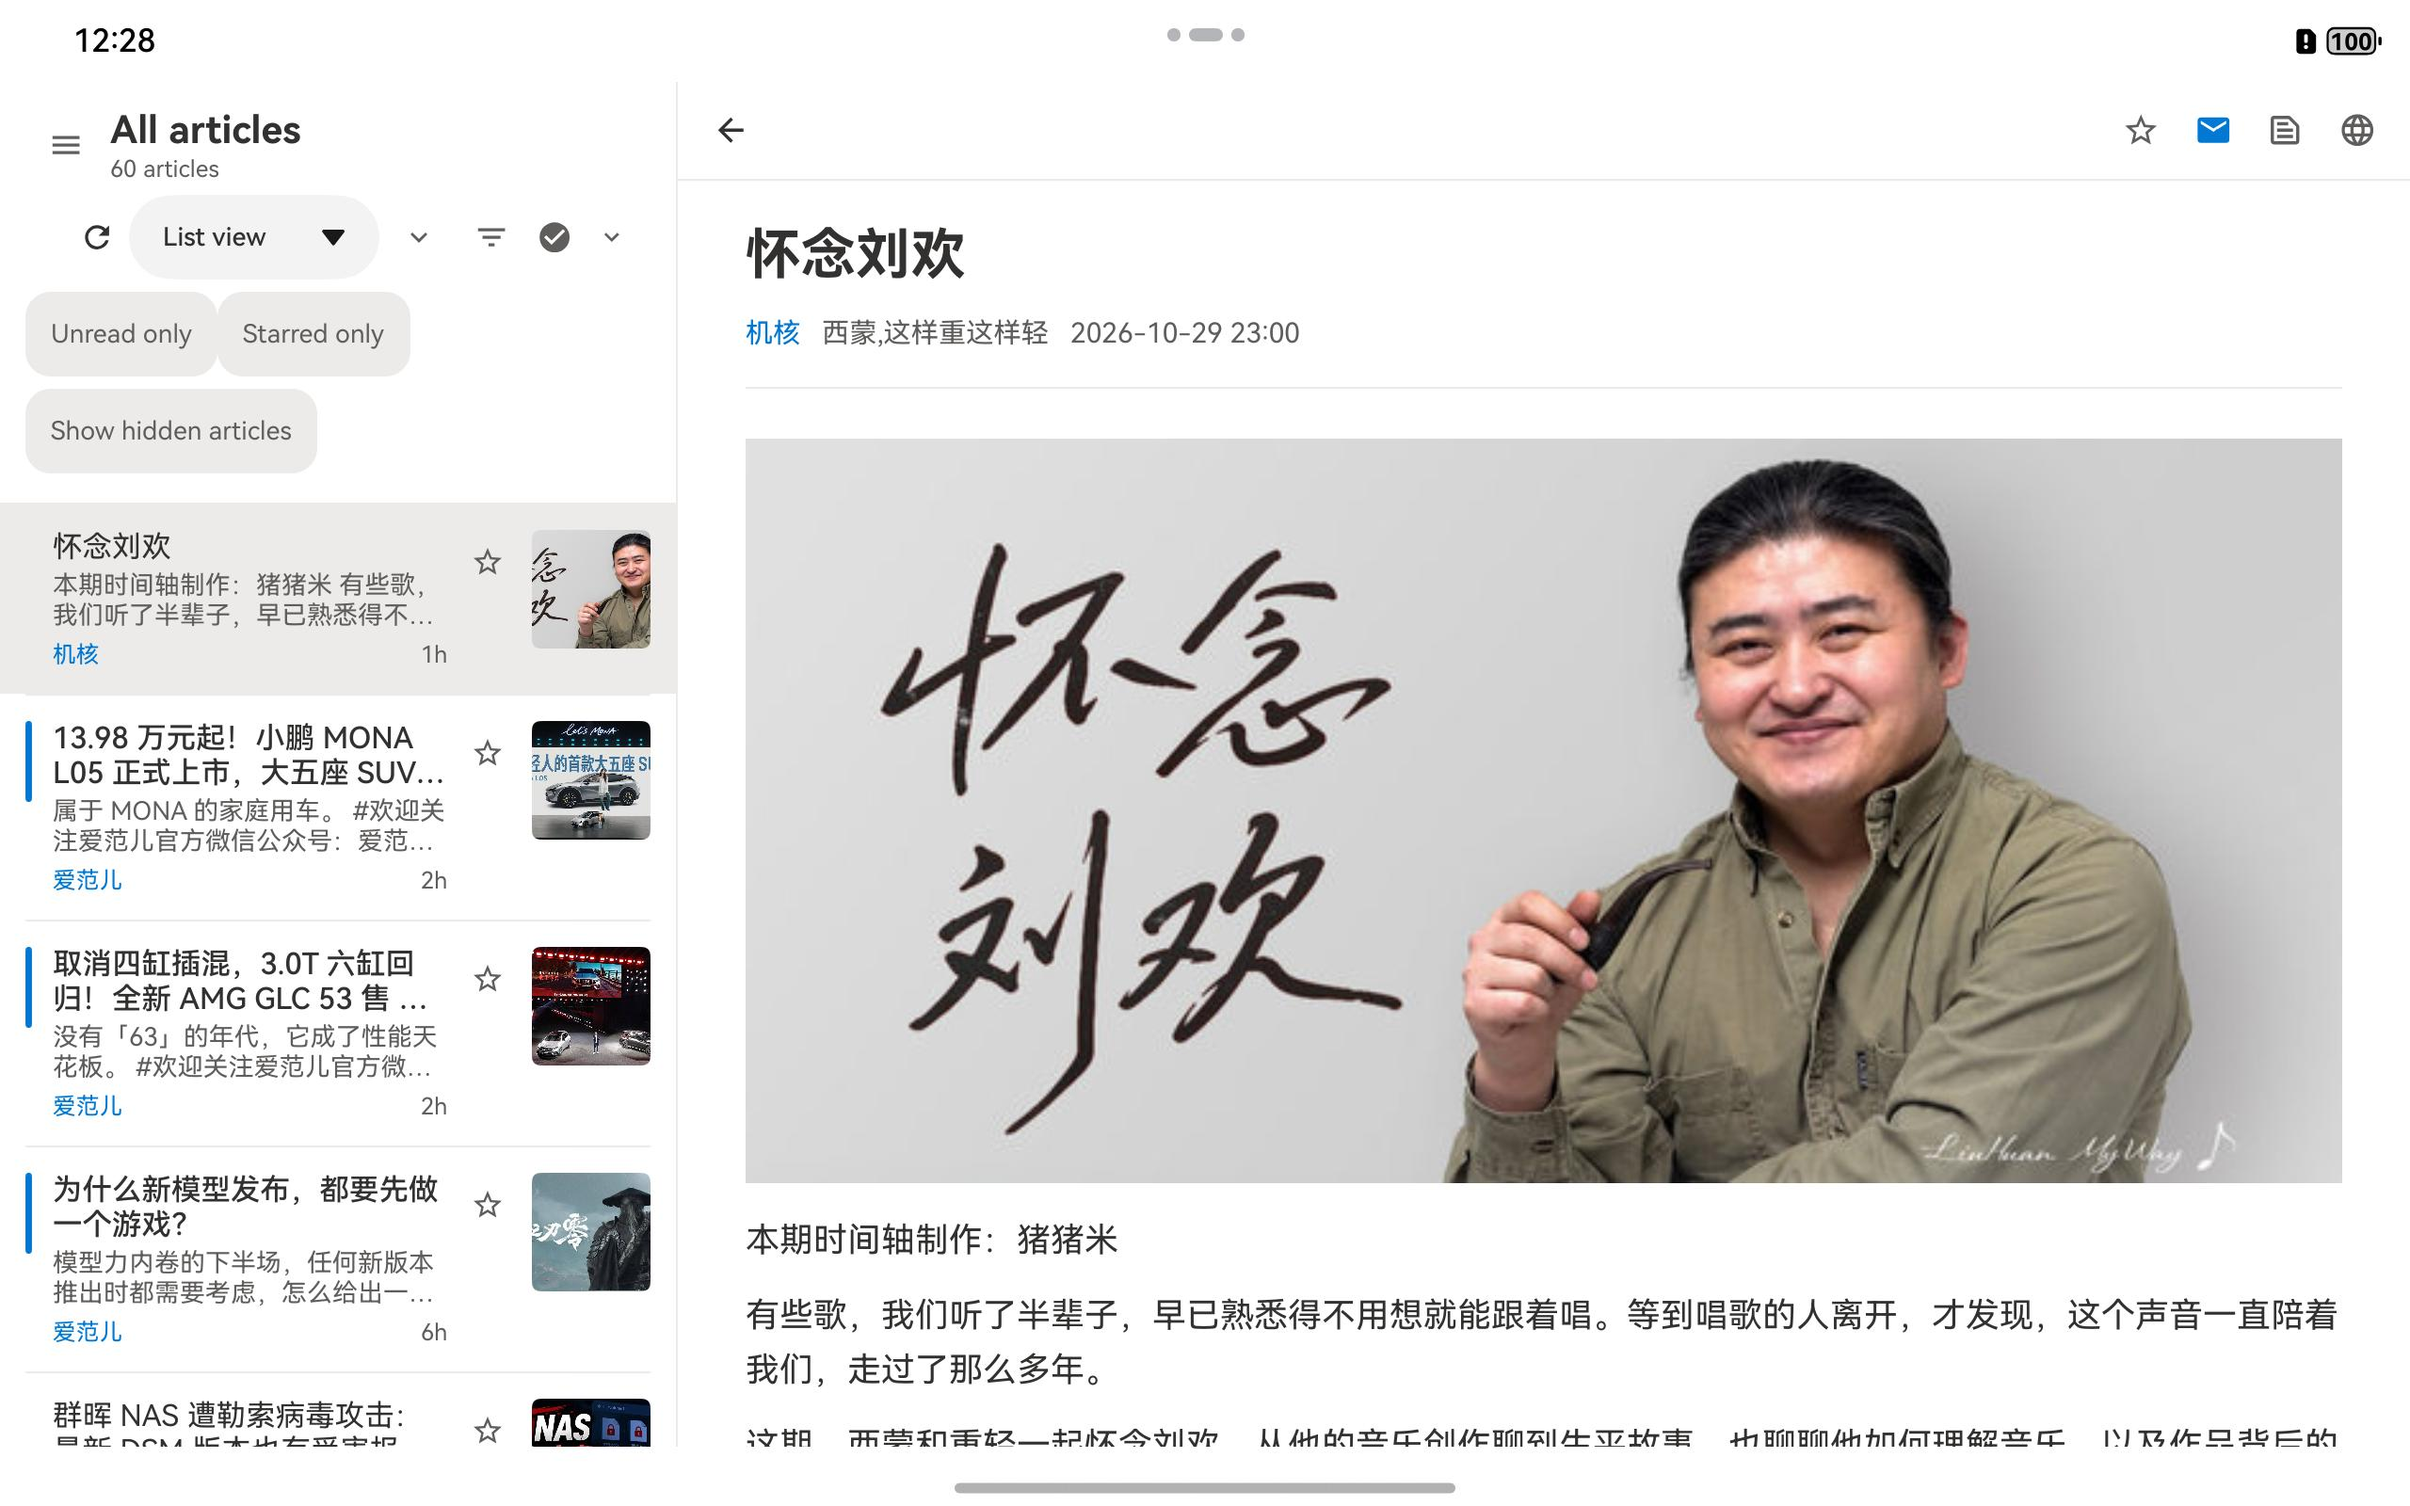
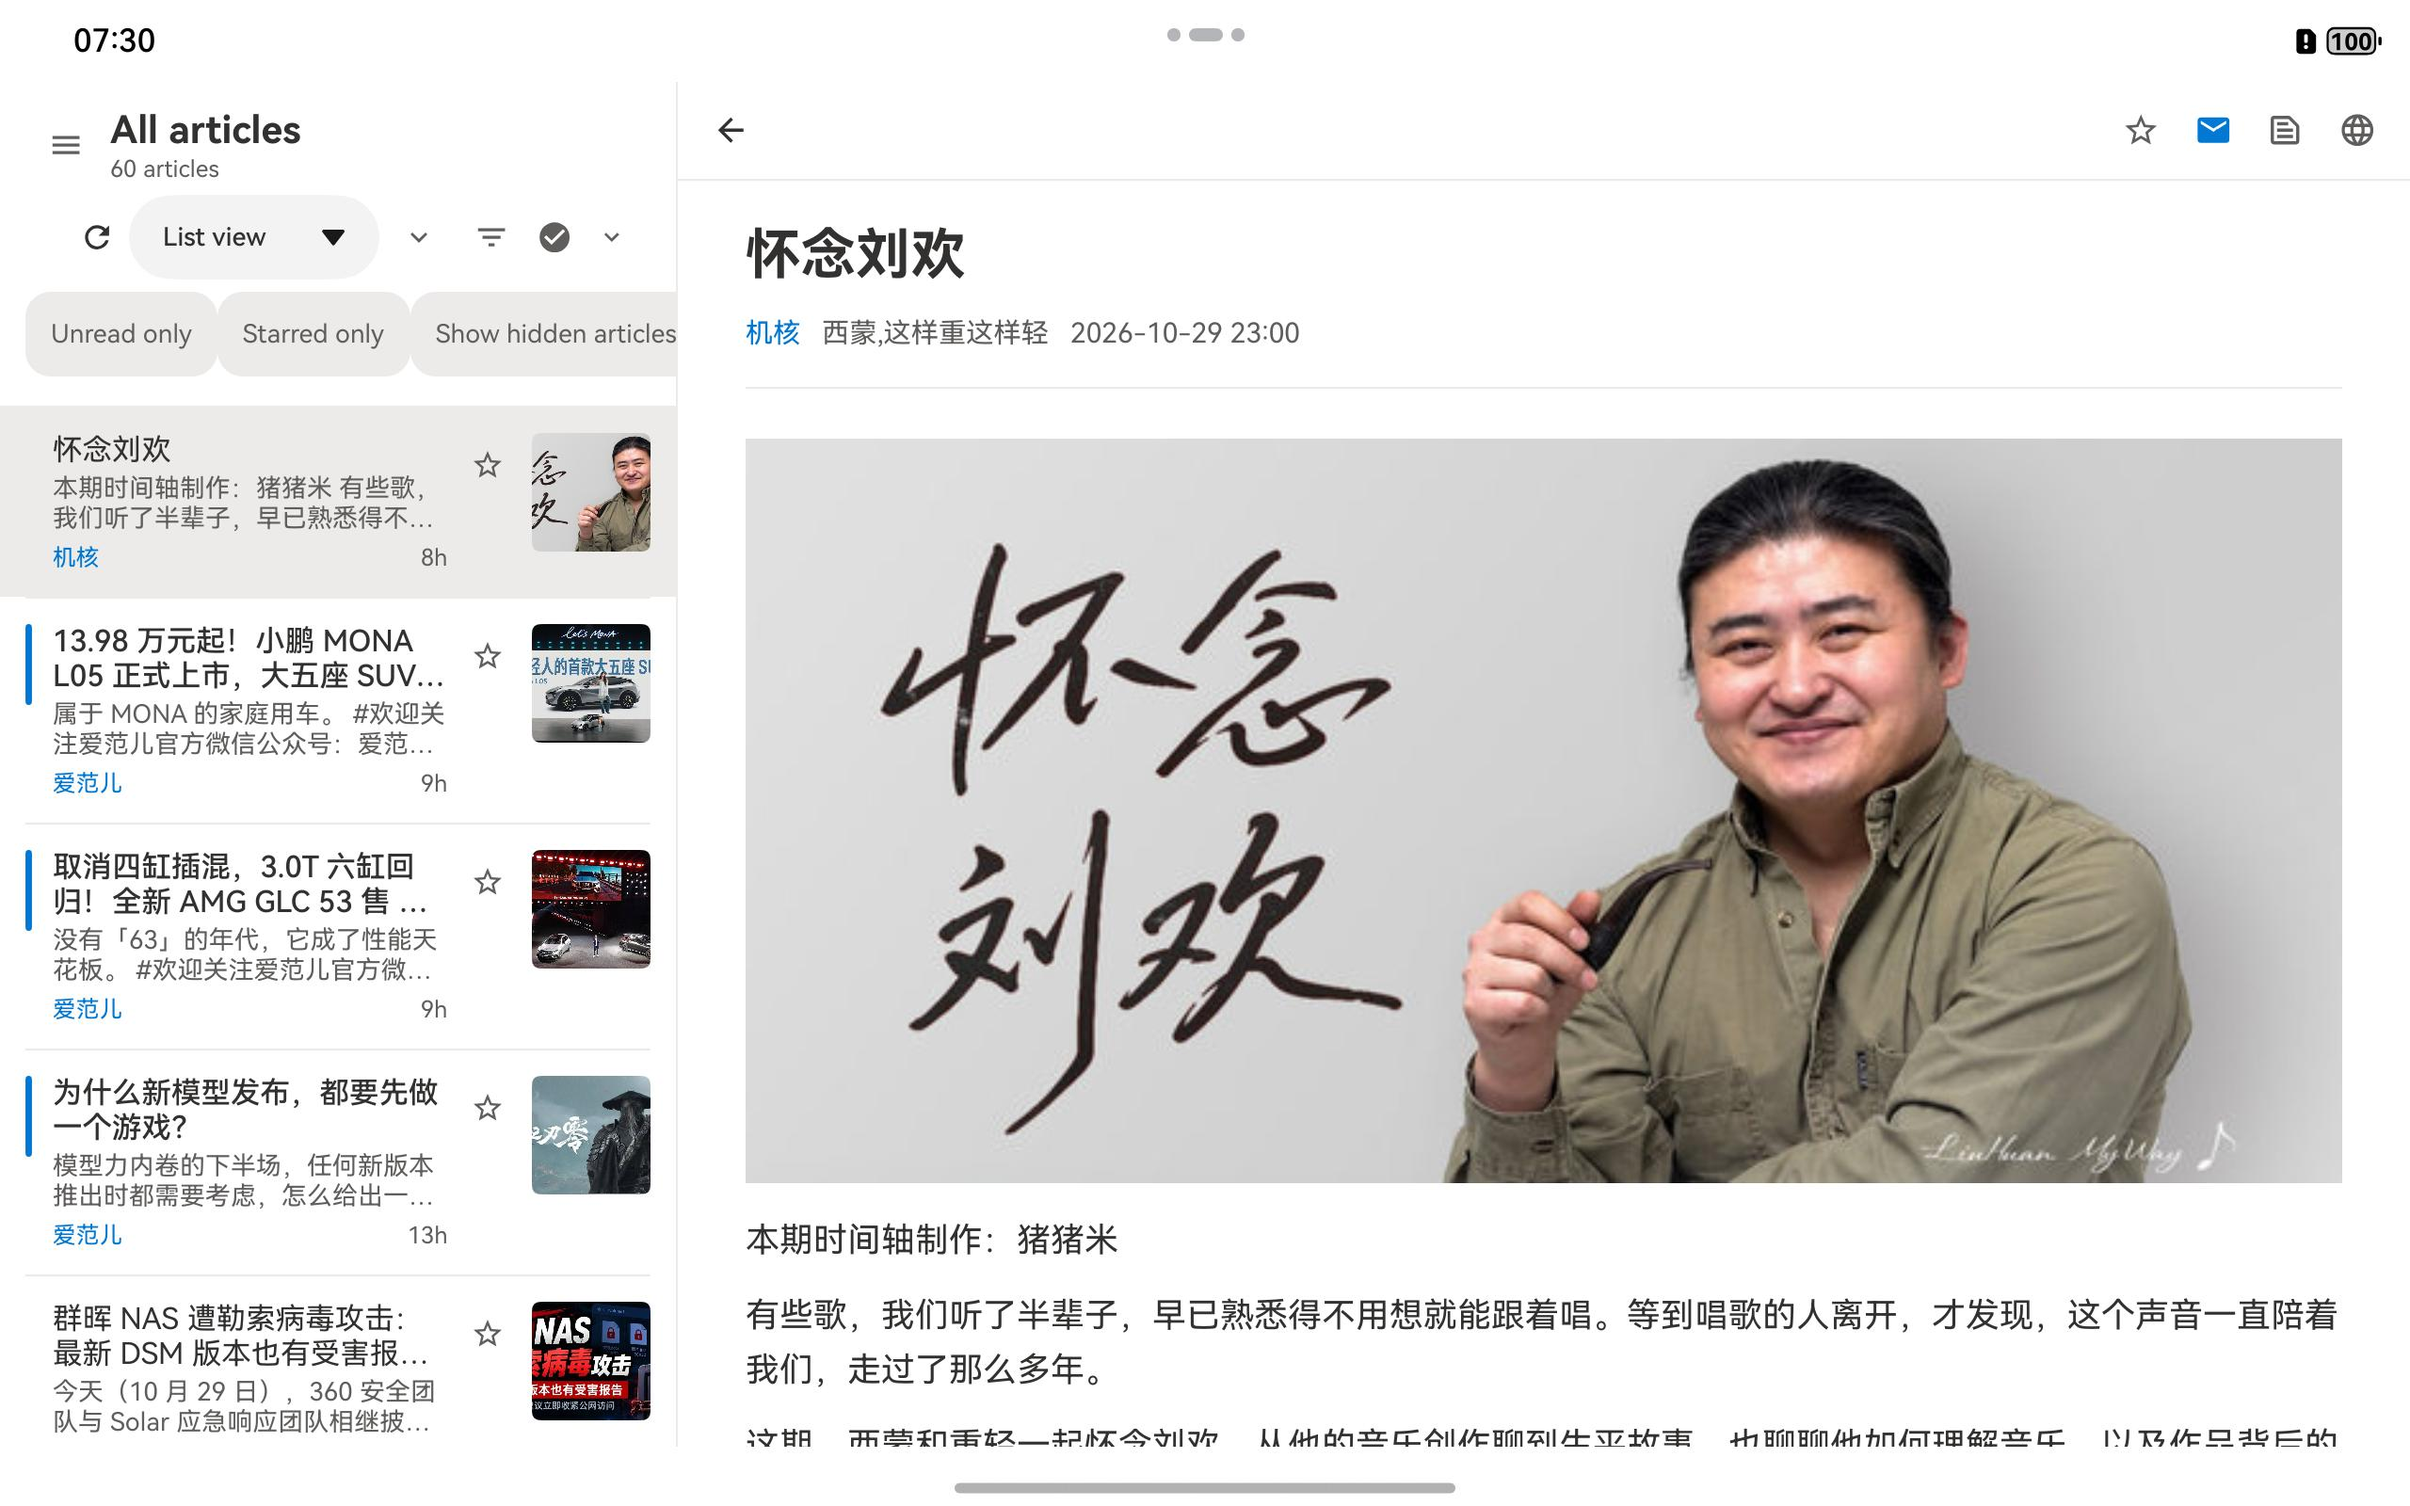
fix(list): keep the filter chips on one line in every language
The three chips needed about 350vp in a pane that has 346vp once the window is
narrow, so the wrapping Flex put "Show hidden articles" on a second row in
English (visible on the tablet store screenshot). They now live in a horizontal
Scroll with the bar hidden: the row stays one line high, still clips inside the
pane instead of drawing over the reader, and can be swiped when it overflows.
The per-view options row gets the same treatment.

harness: the two "chip rows wrap" assertions became "chip rows scroll"
(+1 net, 602 passed), and the two affected tablet English screenshots were
recaptured.

diff --git a/verify/harness.ts b/verify/harness.ts
@@ -2351,12 +2351,14 @@ check('every settings setter publishes the change to the store',
 // showed the header's title Column squeezed to zero width (no title in the dump at
 // all): the icon group alone needs ≈296vp. Both rows wrap now, and the header
 // stacks below 420vp.
-const wrapCount: number = (listSrc.match(/Flex\(\{ wrap: FlexWrap\.Wrap \}\)/g) ?? []).length;
-check('both chip rows wrap instead of overflowing the pane',
-  wrapCount === 2, 'wrap floors: ' + wrapCount);
-check('the filter chips sit in the wrapping container, not a bare Row',
-  /Flex\(\{ wrap: FlexWrap\.Wrap \}\) \{\s*ChipView\(\{/.test(listSrc)
-  && listSrc.indexOf('Filter toggles. Independent bits on top of the sidebar') >= 0);
+const scrollRows: number = (listSrc.match(/\.scrollable\(ScrollDirection\.Horizontal\)/g) ?? []).length;
+check('both chip rows scroll sideways instead of wrapping',
+  scrollRows === 2, 'horizontal rows: ' + scrollRows);
+check('neither chip row wraps any more',
+  listSrc.indexOf('Flex({ wrap: FlexWrap.Wrap })') < 0);
+check('the filter chips sit in a scrolling Row, not a wrapping Flex',
+  /Scroll\(\) \{\s*Row\(\) \{\s*ChipView\(\{/.test(listSrc)
+  && listSrc.indexOf('One line that scrolls sideways') >= 0);
 check('the list header stacks when the pane cannot hold title and icons',
   listSrc.indexOf('private headerStacks(): boolean {') >= 0
   && listSrc.indexOf('return this.paneWidth < 420;') >= 0
@@ -2365,8 +2367,8 @@ check('the list header stacks when the pane cannot hold title and icons',
 check('the title and the icon group stay reachable in both header layouts',
   (listSrc.match(/this\.HeaderTitle\(\)/g) ?? []).length === 2
   && (listSrc.match(/this\.HeaderButtons\(\)/g) ?? []).length === 2);
-check('wrapped chips get vertical spacing between the lines',
-  listSrc.indexOf('.margin({ right: this.gap, bottom: 6 })') >= 0);
+check('the chip rows hide their scrollbar so the row still reads as a filter bar',
+  (listSrc.match(/\.scrollBar\(BarState\.Off\)/g) ?? []).length >= 2);
 
 // --- Touch targets --------------------------------------------------------------
 // The UX guidance requires a tap area of at least 40vp x 40vp. Measured on the
